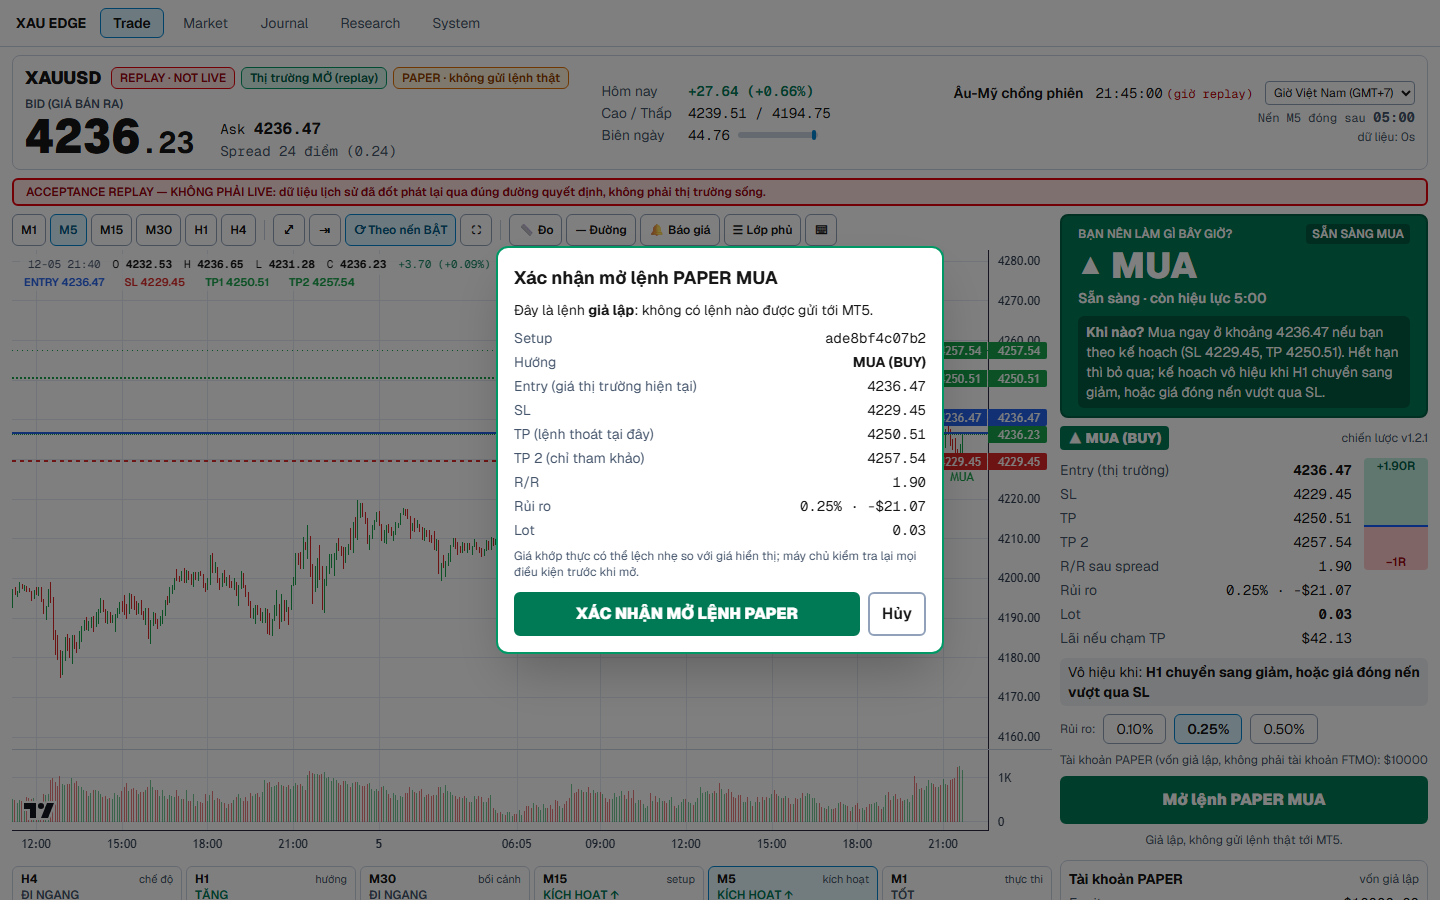
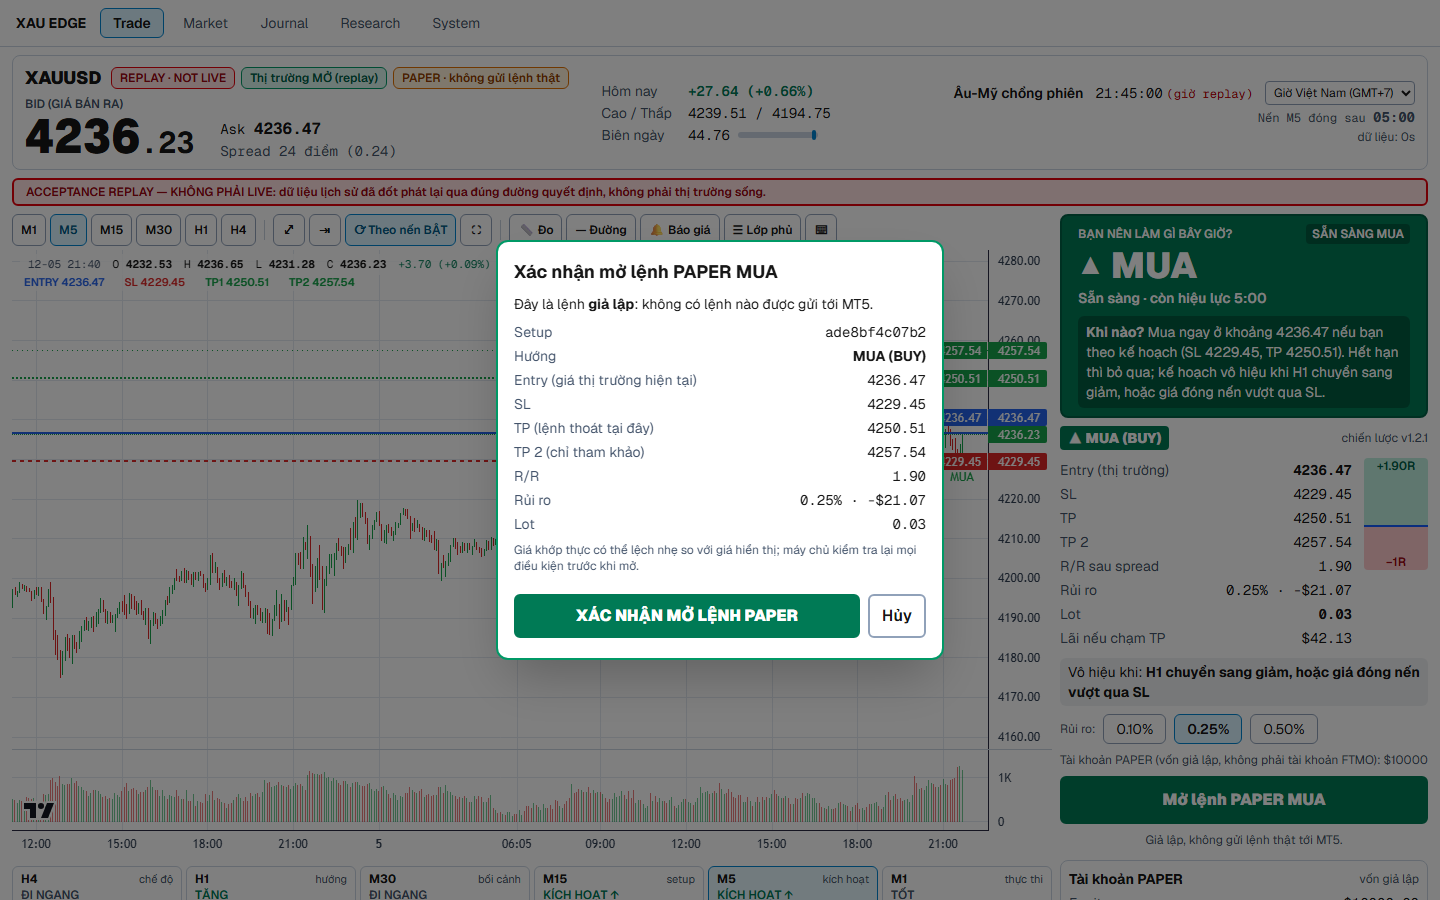
TRADE-07d: red-team fixes - a refused READY setup is WAIT (blocked), API loss turns the hero UNAVAILABLE, confirmation buttons stay on screen in landscape
HIGH: hero kept a green BUY (a) while the API was unreachable and (b) for a setup already taken and
closed (only the button was disabled). Server action_for now returns WAIT/BLOCKED with the desk's
reason; the page overrides the action to UNAVAILABLE while disconnected. MEDIUM: confirm/cancel are
sticky in the modal (phone landscape). Regression tests: Python + mock + real-API acceptance.

Changed region(s): [[0.3438, 0.2489, 0.6562, 0.7467]]

diff --git a/xau-edge/apps/dashboard/lib/action.ts b/xau-edge/apps/dashboard/lib/action.ts
@@ -5,7 +5,7 @@
  */
 
 import type { TradeView } from "@/lib/trade";
-import { EXIT_REASON_VI, humanCondition, invalidationText, trendText, waitingText } from "@/lib/vi";
+import { BLOCKER_VI, EXIT_REASON_VI, humanCondition, invalidationText, trendText, waitingText } from "@/lib/vi";
 
 export type ActionTone = "buy" | "sell" | "watch-buy" | "watch-sell" | "hold" | "exit" | "wait" | "error";
 
@@ -30,6 +30,7 @@ export function actionText(view: TradeView, secondsLeft: number | null, expiredN
 
   if (a.code === "UNAVAILABLE") {
     const err = view.conditions.find((c) => c.severity === "ERROR" && c.code !== "MARKET_CLOSED");
+    if (a.stage === "API_DOWN") return { code: a.code, tone: "error", word: "KHÔNG KHẢ DỤNG", sub: "Mất kết nối API: những gì thấy trên màn hình có thể đã cũ.", when: "Đừng vào lệnh lúc này. Đây không phải trạng thái chờ bình thường: đợi kết nối trở lại." };
     return { code: a.code, tone: "error", word: "KHÔNG KHẢ DỤNG", sub: err ? humanCondition(err.code, err.message) : "Hệ thống chưa cho quyết định đáng tin.", when: "Đừng vào lệnh lúc này. Đây không phải trạng thái chờ bình thường: hãy kiểm tra hệ thống." };
   }
   if (a.code === "HOLD") {
@@ -87,9 +88,10 @@ export function actionText(view: TradeView, secondsLeft: number | null, expiredN
   const bull = view.structure?.h1_trend === "BULLISH" ? true : view.structure?.h1_trend === "BEARISH" ? false : null;
   const next = waitingText(view.why_wait?.waiting_for_code ?? null, bull, { phase: view.setup?.phase ?? null, age: view.setup?.bars_since_armed ?? null });
   let sub = next ? `Đang chờ: ${next}` : "Chưa có kế hoạch";
-  if (a.stage === "CLOSED") sub = "Thị trường đóng cửa";
+  if (a.stage === "BLOCKED" && a.blocked_by) sub = `${SIDE ? `Có setup ${sideVi} nhưng ` : ""}không mở được: ${BLOCKER_VI[a.blocked_by.code] ?? a.blocked_by.message}`;
+  else if (a.stage === "CLOSED") sub = "Thị trường đóng cửa";
   else if (a.stage === "EXPIRED" || expiredNow) sub = "Kế hoạch trước đã hết hạn, không còn mở được";
   else if (a.stage === "INVALIDATED") sub = "Setup vừa bị vô hiệu: bộ máy chờ setup mới";
   else if (a.stage === "INCOMPLETE") sub = "Có setup nhưng kế hoạch chưa đầy đủ";
-  return { code: "WAIT", tone: "wait", word: "CHỜ", sub, when: a.stage === "CLOSED" ? "Chưa làm gì. Bộ máy tự tính lại khi thị trường mở cửa." : "Chưa làm gì. Chờ là trạng thái bình thường: bộ máy rất ít khi có kế hoạch." };
+  return { code: "WAIT", tone: "wait", word: "CHỜ", sub, when: a.stage === "BLOCKED" ? "Đừng mở lệnh cho setup này. Bàn sẽ tự cập nhật khi lý do chặn hết hoặc có setup mới." : a.stage === "CLOSED" ? "Chưa làm gì. Bộ máy tự tính lại khi thị trường mở cửa." : "Chưa làm gì. Chờ là trạng thái bình thường: bộ máy rất ít khi có kế hoạch." };
 }

diff --git a/xau-edge/apps/dashboard/e2e-acceptance/desk.spec.ts b/xau-edge/apps/dashboard/e2e-acceptance/desk.spec.ts
@@ -190,6 +190,26 @@ test.describe("paper lifecycle through the real API", () => {
     expect(journal.trades.filter((t: { exit_reason: string }) => t.exit_reason === "MANUAL_CLOSE")).toHaveLength(1);
   });
 
+  test("a setup that was already taken and closed is WAIT (blocked), never a green BUY (red team)", async ({ page, request }) => {
+    await load(page, request, "buy_tp");
+    await openPaper(page);
+    await page.getByTestId("close-paper").click();
+    await page.getByTestId("confirm-close").click();
+    await expect(page.getByTestId("paper-position")).toHaveCount(0, { timeout: 20_000 });
+    await expect(hero(page)).toHaveAttribute("data-action", "WAIT", { timeout: 20_000 });
+    await expect(page.getByTestId("action-sub")).toContainText("không mở được");
+    await expect(page.getByTestId("take-paper")).toBeDisabled();
+  });
+
+  test("API down: the hero stops saying BUY and says UNAVAILABLE (red team)", async ({ page, request }) => {
+    await load(page, request, "buy_tp");
+    await expect(hero(page)).toHaveAttribute("data-action", "BUY");
+    await page.unroute("http://127.0.0.1:8000/**");
+    await page.route("http://127.0.0.1:8000/**", (route) => route.abort());
+    await expect(hero(page)).toHaveAttribute("data-action", "UNAVAILABLE", { timeout: 30_000 });
+    await expect(page.getByTestId("action-sub")).toContainText("Mất kết nối API");
+  });
+
   test("STOP_LOSS exit (SELL)", async ({ page, request }) => {
     await load(page, request, "sell_ready");
     await openPaper(page);

diff --git a/xau-edge/apps/dashboard/components/terminal/ConfirmModals.tsx b/xau-edge/apps/dashboard/components/terminal/ConfirmModals.tsx
@@ -55,7 +55,7 @@ export function OpenConfirmModal({ frozen, liveEntry, maxDriftR, valid, busy, on
         </p>
       )}
       <p className="mt-2 text-xs text-slate-600 dark:text-slate-400">Giá khớp thực có thể lệch nhẹ so với giá hiển thị; máy chủ kiểm tra lại mọi điều kiện trước khi mở.</p>
-      <div className="mt-3 flex gap-2">
+      <div className="sticky -bottom-4 mt-3 flex gap-2 bg-white pb-1 pt-2 dark:bg-slate-900">
         <button type="button" data-testid="confirm-paper" data-autofocus disabled={busy || !valid} onClick={onConfirm} className={`flex-1 rounded-md border-2 px-3 py-2 font-black text-white disabled:opacity-40 ${buy ? "border-emerald-700 bg-emerald-700" : "border-red-700 bg-red-700"}`}>
           XÁC NHẬN MỞ LỆNH PAPER
         </button>
@@ -84,7 +84,7 @@ export function CloseConfirmModal({ trade, busy, unsure, onConfirm, onCancel }: 
         </p>
       )}
       <p className={`mt-2 rounded border px-2 py-1 text-xs ${WARN}`}>Giá và lãi/lỗ cuối cùng được máy chủ đọc lại ngay lúc đóng, có thể khác ước tính.</p>
-      <div className="mt-3 flex gap-2">
+      <div className="sticky -bottom-4 mt-3 flex gap-2 bg-white pb-1 pt-2 dark:bg-slate-900">
         <button type="button" data-testid="confirm-close" data-autofocus disabled={busy} onClick={onConfirm} className="flex-1 rounded-md border-2 border-slate-700 bg-slate-800 px-3 py-2 font-black text-white disabled:opacity-40">
           XÁC NHẬN ĐÓNG
         </button>

diff --git a/xau-edge/apps/dashboard/components/terminal/Modal.tsx b/xau-edge/apps/dashboard/components/terminal/Modal.tsx
@@ -59,7 +59,7 @@ export function Modal({ title, onClose, children, testId, tone = "neutral" }: Pr
   const border = tone === "buy" ? "border-emerald-600" : tone === "sell" ? "border-red-600" : "border-slate-500";
   return (
     <div className="fixed inset-0 z-50 flex items-end justify-center bg-black/50 p-0 sm:items-center sm:p-4" onMouseDown={(e) => e.target === e.currentTarget && onClose()}>
-      <div ref={box} tabIndex={-1} role="dialog" aria-modal="true" aria-label={title} data-testid={testId} className={`max-h-[92vh] w-full overflow-y-auto rounded-t-xl border-2 bg-white p-4 shadow-2xl dark:bg-slate-900 sm:max-w-md sm:rounded-xl ${border}`}>
+      <div ref={box} tabIndex={-1} role="dialog" aria-modal="true" aria-label={title} data-testid={testId} className={`max-h-[92dvh] w-full overflow-y-auto rounded-t-xl border-2 bg-white p-4 shadow-2xl dark:bg-slate-900 sm:max-w-md sm:rounded-xl ${border}`}>
         <h2 className="mb-2 text-lg font-bold">{title}</h2>
         {children}
       </div>

diff --git a/xau-edge/apps/dashboard/e2e/terminal.spec.ts b/xau-edge/apps/dashboard/e2e/terminal.spec.ts
@@ -731,6 +731,19 @@ test.describe("layouts", () => {
     await expect(page.getByTestId("confirm-open-modal")).toBeVisible();
   });
 
+  test("phone in landscape: the confirmation's confirm and cancel buttons stay inside the screen (red team)", async ({ page }) => {
+    await mock(page, view("buy"));
+    await page.setViewportSize({ width: 844, height: 390 });
+    await page.goto("/trade");
+    await page.getByTestId("take-paper").or(page.getByTestId("mobile-action-bar").getByRole("button")).first().click();
+    await expect(page.getByTestId("confirm-open-modal")).toBeVisible();
+    for (const id of ["confirm-paper", "cancel-paper"]) {
+      const b = (await page.getByTestId(id).boundingBox())!;
+      expect(b.y).toBeGreaterThanOrEqual(0);
+      expect(b.y + b.height).toBeLessThanOrEqual(390);
+    }
+  });
+
   test("phone: no action bar while the desk only waits", async ({ page }) => {
     await mock(page, view("wait"));
     await page.setViewportSize({ width: 390, height: 844 });

diff --git a/xau-edge/apps/dashboard/components/terminal/TerminalView.tsx b/xau-edge/apps/dashboard/components/terminal/TerminalView.tsx
@@ -378,7 +378,9 @@ export function TerminalView() {
   // ---- conditions that need attention are banners with a human sentence first -------------------
   const banners = (view?.conditions ?? []).filter((c) => (c.severity === "ERROR" || c.severity === "WARN") && c.code !== "MARKET_CLOSED" && c.code !== "NEWS_UNKNOWN");
 
-  const heroNode = view && <DecisionHero view={view} serverNowMs={serverNow} />;
+  // no connection (or data that stopped arriving): never keep a green BUY on screen, whatever the last view said
+  const heroView = view && (error || uiStale) ? { ...view, hero: { ...view.hero, action: { ...view.hero.action, code: "UNAVAILABLE" as const, stage: "API_DOWN" } } } : view;
+  const heroNode = heroView && <DecisionHero view={heroView} serverNowMs={serverNow} />;
   const bodyNode = view && (
     <DecisionBody
       view={view}

diff --git a/xau-edge/apps/dashboard/lib/vi.ts b/xau-edge/apps/dashboard/lib/vi.ts
@@ -60,6 +60,8 @@ export const BLOCKER_VI: Record<string, string> = {
   EXPIRED: "Kế hoạch đã hết hạn.",
   COOLDOWN: "Đang nghỉ sau lệnh trước.",
   OPEN_POSITION: "Đang có lệnh paper mở.",
+  DUPLICATE_SETUP: "Setup này đã được vào lệnh rồi, không mở lại.",
+  QUOTE_STALE: "Giá quá cũ để khớp lệnh.",
 };
 
 export const STAGE_VI: Record<string, string> = {

diff --git a/xau-edge/apps/dashboard/lib/trade.ts b/xau-edge/apps/dashboard/lib/trade.ts
@@ -31,6 +31,8 @@ export interface HeroAction {
   stage: string;
   side: "BUY" | "SELL" | null;
   thesis: "INTACT" | "WEAK" | "UNKNOWN" | null;
+  /** READY setup the desk would refuse: the action is WAIT, stage BLOCKED, and this is why (server text). */
+  blocked_by?: { code: string; message: string };
 }
 
 export interface Hero {

diff --git a/xau-edge/src/xau_edge/trading/cockpit.py b/xau-edge/src/xau_edge/trading/cockpit.py
@@ -184,7 +184,10 @@ def _bias_side(bias: str | None) -> str | None:
 
 
 def action_for(
-    hero: dict[str, Any], signal: TradingSignal | None, position: dict[str, Any] | None
+    hero: dict[str, Any],
+    signal: TradingSignal | None,
+    position: dict[str, Any] | None,
+    blockers: list[dict[str, str]] | None = None,
 ) -> dict[str, Any]:
     """The ONE thing the trader should do now, derived from the same state as the hero.
 
@@ -193,6 +196,9 @@ def action_for(
     INVALIDATED, ...). ``thesis`` (HOLD only) says whether the entry reason still stands: the H1
     direction of the open position against the current H1 direction. It is information, not a new
     exit rule: the paper desk exits only by SL, TP, time or the closure policy.
+
+    A READY setup that the desk would refuse (already taken, cooldown, risk limits, ...) is never
+    shown as BUY/SELL: it is WAIT with stage BLOCKED and the server's reason in ``blocked_by``.
     """
     state = hero["state"]
     phase = None if signal is None else signal.metadata.get("setup_phase")
@@ -208,7 +214,10 @@ def action_for(
         out.update(code="HOLD", stage="OPEN", side=held, thesis=thesis)
     elif state in ("BUY_READY", "SELL_READY"):
         ready = state.split("_")[0]
-        out.update(code=ready, stage="READY", side=ready)
+        if blockers:
+            out.update(stage="BLOCKED", side=ready, blocked_by=blockers[0])
+        else:
+            out.update(code=ready, stage="READY", side=ready)
     elif state in ("EXPIRED_SETUP", "NOT_ACTIONABLE"):
         out.update(
             stage="EXPIRED" if state == "EXPIRED_SETUP" else "INCOMPLETE", side=hero.get("side")

diff --git a/xau-edge/tests/unit/trading/test_cockpit.py b/xau-edge/tests/unit/trading/test_cockpit.py
@@ -428,6 +428,16 @@ def test_every_hero_state_maps_to_one_action() -> None:
         assert action_for(_hero(state), wait, None)["code"] in ("WAIT", "WATCH_BUY", "WATCH_SELL")
 
 
+def test_a_ready_setup_the_desk_would_refuse_is_never_a_buy_or_sell() -> None:
+    """Red-team finding: a taken-and-closed setup kept a giant BUY with only the button disabled."""
+    buy = signal()
+    dup = {"code": "DUPLICATE_SETUP", "message": "this setup was already taken"}
+    blocked = action_for(_hero("BUY_READY", "BUY"), buy, None, [dup])
+    assert (blocked["code"], blocked["stage"], blocked["side"]) == ("WAIT", "BLOCKED", "BUY")
+    assert blocked["blocked_by"] == dup
+    assert action_for(_hero("BUY_READY", "BUY"), buy, None, [])["code"] == "BUY"
+
+
 def test_hold_reports_whether_the_entry_thesis_still_stands() -> None:
     bull = signal()  # H1 bullish in the helper state
     hold = action_for(_hero("POSITION_OPEN", "BUY"), bull, {"side": "BUY", "status": "OPEN"})

diff --git a/xau-edge/src/xau_edge/trading/engine.py b/xau-edge/src/xau_edge/trading/engine.py
@@ -669,7 +669,7 @@ class TradeEngine:
                 signal=signal, conditions=conditions, expired=expired, plan=plan, position=position,
                 last_exit=self._last_exit(), market_open=snap.market_open, now=stamp,
             )  # fmt: skip
-            hero["action"] = action_for(hero, signal, position)
+            hero["action"] = action_for(hero, signal, position, entry_blockers)
             decision = signal.model_dump(mode="json")
             decision["decision_id"] = signal.decision_id
             decision["expired"] = expired
